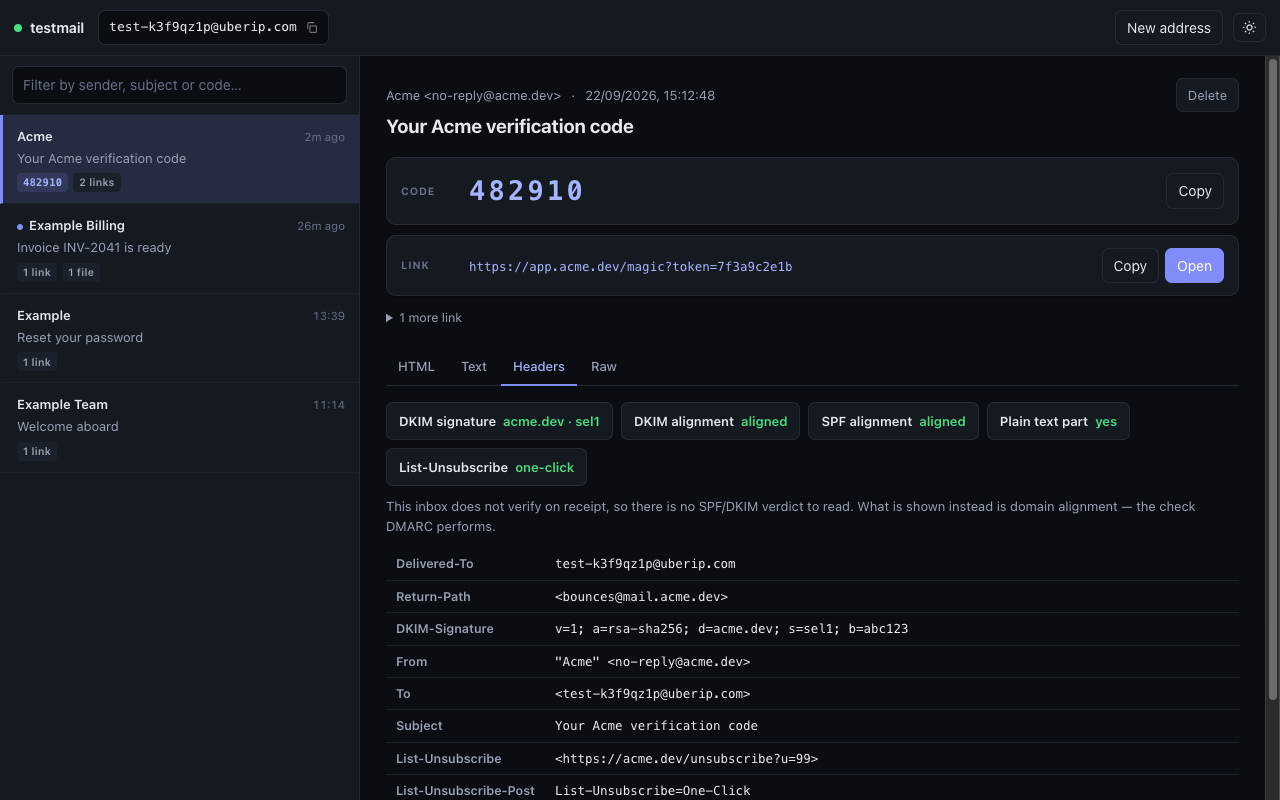
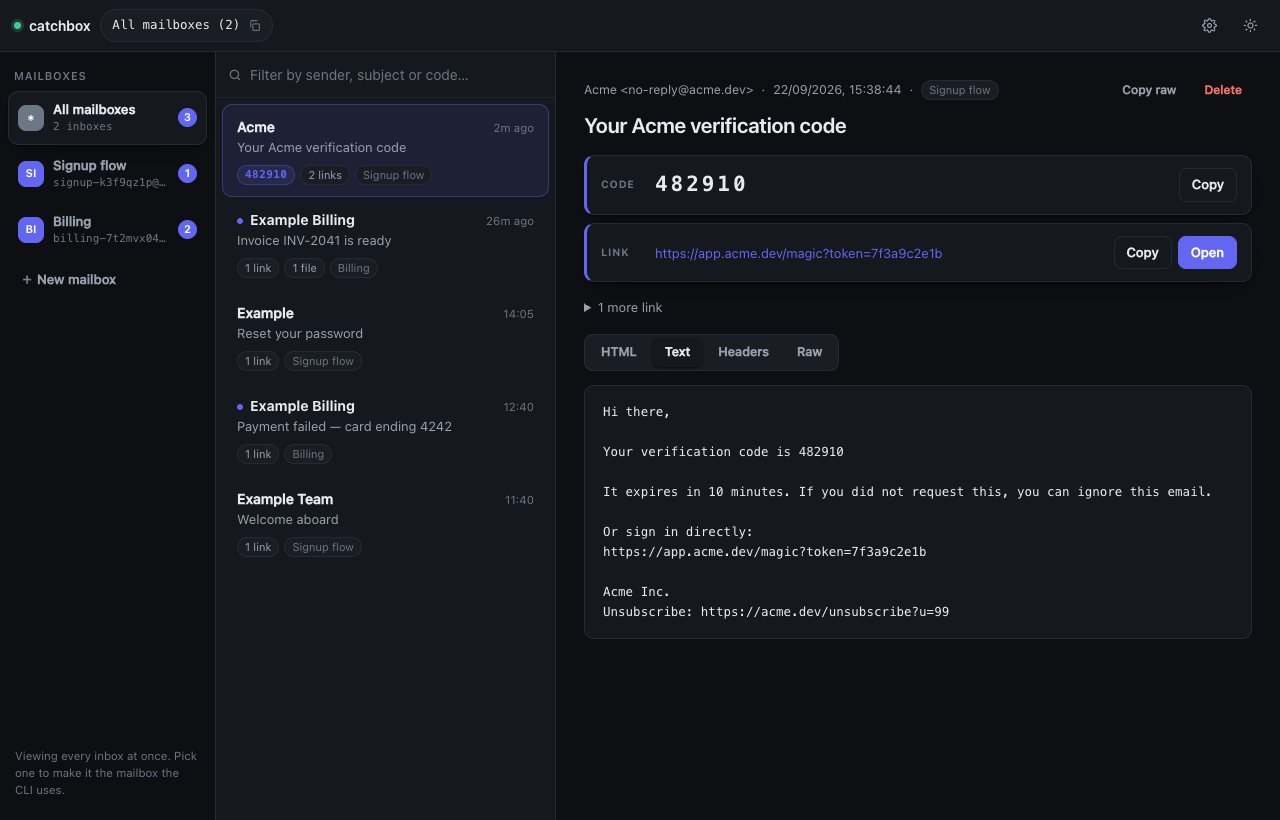
docs: README die uitlegt waarvoor dit is en hoe je het gebruikt
Rondleiding in plaats van een opsomming: waarom je dit wil, één mailbox per
flow, de inbox in de browser, de sneltoetsen en de instellingen. Nieuwe
screenshots, inclusief de instellingenpagina.

diff --git a/README.md b/README.md
@@ -2,30 +2,31 @@
 
 # catchbox
 
-**A disposable inbox for developers.** Grab an address, catch the mail, pull out the link or the code — without leaving your terminal.
+**Disposable inboxes for developers.** Grab an address, catch the mail, pull out the link or
+the code — without leaving your terminal.
 
 ![Node](https://img.shields.io/badge/Node-%E2%89%A518-339933?style=flat-square&logo=node.js&logoColor=white)
 ![No dependencies](https://img.shields.io/badge/dependencies-none-6366f1?style=flat-square)
 ![MIT](https://img.shields.io/badge/license-MIT-black?style=flat-square)
 
-<img src="docs/inbox-dark.png" alt="The catchbox inbox, showing a verification email with the code and sign-in link pulled out above the message" width="880">
+<img src="docs/inbox-dark.png" alt="The catchbox inbox: two mailboxes in the sidebar, a verification email open with the code and the sign-in link pulled out above the message" width="880">
 
 </div>
 
-## Why
+## What this is for
 
 Testing a signup flow means reading an email you don't care about, to copy one thing out of it.
-catchbox skips the reading: it pulls the **one-time code** and the **action link** out of the
-message and hands you those.
+catchbox skips the reading. It hands you the **one-time code** and the **action link**, and
+nothing else.
 
 ```sh
-catchbox                  # test-k3f9qz1p@uberip.com  (copied)
-# …paste it into your signup form…
+catchbox                  # signup-k3f9qz1p@uberip.com  (copied)
+# …paste that into your signup form…
 catchbox code --wait      # 482910  (copied)
 ```
 
-That is the whole loop. No browser, no account, no waiting on a shared mailbox someone else
-is also testing against.
+That's the loop. No browser, no account to make, no shared mailbox that someone else on the
+team is also testing against.
 
 ## Install
 
@@ -33,50 +34,110 @@ is also testing against.
 npm install -g github:brentc22/catchbox
 ```
 
-Or clone it and link:
+Or clone it:
 
 ```sh
 git clone https://github.com/brentc22/catchbox.git
 cd catchbox && npm link
 ```
 
-Node 18 or newer. No dependencies — it talks to [mail.tm](https://mail.tm) over `fetch` and
-nothing else.
+Node 18 or newer, and that is the whole list — no dependencies. It talks to
+[mail.tm](https://mail.tm) over `fetch` and to nothing else.
 
-The binary installs under both `catchbox` and `testmail`, so older scripts and shell aliases
-keep working after the rename.
+The binary installs under both `catchbox` and `testmail`, so scripts and shell aliases from
+before the rename keep working.
 
-## The inbox
+Curious before you install? `TESTMAIL_DEMO=1 catchbox ui` opens a fixed example inbox that
+never touches the network.
+
+## One mailbox per flow
+
+Signup, billing, invites and password resets all send mail, and you want to be able to tell
+which is which. So keep a mailbox per flow:
+
+```sh
+catchbox add "Signup flow"      # signup-flow-k3f9qz1p@uberip.com  (copied)
+catchbox add "Billing"          # billing-7t2mvx04@uberip.com      (copied)
+
+catchbox boxes
+# [0]   signup-flow-k3f9qz1p@uberip.com  Signup flow
+# [1] * billing-7t2mvx04@uberip.com      Billing
+
+catchbox use "Signup flow"      # every other command now reads that one
+catchbox code                   # …the code from the signup mail
+```
+
+The name ends up in the address, so you can recognise it in a log line or a signup form
+without looking it up.
+
+Need one mailbox while working in another? Don't switch — point a single command at it:
+
+```sh
+catchbox list --box Billing
+catchbox code --box 1 --wait
+```
+
+## The inbox in your browser
 
 ```sh
 catchbox ui
 ```
 
-A local inbox on `http://localhost:7337`. New mail appears by itself — no refreshing — and
-every message leads with what you actually need:
+A local inbox on `http://localhost:7337`. Every mailbox is in the sidebar with its own unread
+badge, **All mailboxes** merges them into one stream, and new mail appears by itself — it is
+pushed, not polled, so there is no refresh interval to sit through.
 
-- The **code**, in one click's reach
-- The **action link**, with tracking pixels and unsubscribe footers filtered out of the way
-- **HTML** rendered in a sandboxed frame, so you can check how the template really looks
-- **Headers** with a deliverability read: DKIM signature, domain alignment, plain-text part,
-  `List-Unsubscribe`
+Each message leads with what you actually came for:
+
+- the **code**, one click from your clipboard;
+- the **action link**, with tracking pixels and unsubscribe footers filtered out of the way;
+- the **HTML** in a sandboxed frame, so you see the template the way a recipient does;
+- the **headers**, read as a deliverability check — DKIM signature, domain alignment,
+  plain-text part, `List-Unsubscribe`.
 
 <div align="center">
-<img src="docs/inbox-light.png" alt="The same inbox in light theme, showing the rendered HTML of the email" width="880">
+<img src="docs/inbox-light.png" alt="The same inbox in light theme with the rendered HTML of the email" width="880">
 </div>
 
-Light and dark, keyboard-driven (`j`/`k` to move, `c` to copy the code, `o` to open the link,
-`/` to filter), and usable on a phone.
+Picking a mailbox in the sidebar also makes it the one the CLI reads, so `catchbox code` and
+the inbox you are looking at can never drift apart.
 
-Want to look around first? `TESTMAIL_DEMO=1 catchbox ui` serves a fixed example inbox and
-never touches the network.
+### Settings
+
+<div align="center">
+<img src="docs/settings.png" alt="The settings page: theme, accent colour, density, the list of mailboxes, and what happens when mail arrives" width="880">
+</div>
+
+Press <kbd>,</kbd> or click the gear. Light, dark or follow-your-system; an accent colour; a
+compact density; and what should happen when mail lands — open it, notify you, beep at you, or
+just sit there. Mailboxes are created, named and deleted from the same page.
+
+### Keyboard
+
+| | |
+|---|---|
+| <kbd>j</kbd> <kbd>k</kbd> | move through the list |
+| <kbd>c</kbd> | copy the code |
+| <kbd>o</kbd> | open the action link |
+| <kbd>y</kbd> | copy the active address |
+| <kbd>/</kbd> | filter |
+| <kbd>1</kbd>…<kbd>9</kbd> | switch mailbox |
+| <kbd>g</kbd> <kbd>a</kbd> | all mailboxes |
+| <kbd>,</kbd> | settings |
+| <kbd>Esc</kbd> | back |
 
 ## Commands
 
 ```
-catchbox                  show the current address and copy it
-catchbox new              new address (deletes the old one), copied
+catchbox                  show the active address and copy it
 catchbox ui [port]        open the inbox in your browser (default 7337)
+
+Mailboxes
+  catchbox add [name]     new mailbox, kept alongside the others
+  catchbox boxes          list them; * marks the active one
+  catchbox use <n|name>   make one active
+  catchbox name <text>    name the active mailbox
+  catchbox new            replace the active mailbox with a fresh one
 
 Catching mail
   catchbox wait [sec]     block until mail arrives, then print it
@@ -91,25 +152,28 @@ Pulling things out
   catchbox eml [n]        save the raw .eml
 
 Cleaning up
-  catchbox rm [n]         delete message n, or the whole account if n is omitted
+  catchbox rm [n]         delete message n, or the whole mailbox if n is omitted
 ```
 
-Flags: `--wait [sec]`, `--grace <sec>`, `--json`, `--all`, `--open`, `--out <file>`.
+Flags: `--box <n|name|address>`, `--wait [sec]`, `--grace <sec>`, `--json`, `--all`,
+`--open`, `--out <file>`.
 
 ## In scripts and CI
 
 Every reading command takes `--json`:
 
 ```sh
-TOKEN=$(catchbox wait 60 --json | jq -r '.links[0]')
-curl -sS "$TOKEN"
+LINK=$(catchbox wait 60 --json | jq -r '.actionableLinks[0]')
+curl -sS "$LINK"
+
+CODE=$(catchbox code --wait 60 --json 2>/dev/null || catchbox code --wait 60)
 ```
 
-`--grace` exists because the obvious script always loses a race: you click something in your
-app, *then* start waiting, and the mail has already arrived. By default anything from the last
-90 seconds still counts.
+`--grace` is there because the obvious script always loses a race: you click something in your
+app, *then* start waiting, and the mail has already landed. Anything from the last 90 seconds
+still counts, so you don't hang for a minute waiting for a message you already have.
 
-## Checking deliverability
+## Why did it land in spam?
 
 ```sh
 $ catchbox headers
@@ -129,37 +193,43 @@ List-Unsubscribe: none
 
 A disposable inbox doesn't run SPF or DKIM checks on arrival, so there is no verdict to read.
 What the headers still allow is the **alignment** check DMARC itself performs — whether the
-signing domain and the bounce domain line up with the `From` domain. That is usually the answer
-to "why did this land in spam", and you get it without setting up a real mailbox first.
+signing domain and the bounce domain line up with the `From` domain. That is usually the
+answer, and you get it without standing up a real mailbox first.
 
 ## How it works
 
-mail.tm provides the mailbox. catchbox keeps the account in `~/.config/testmail/account.json`,
-mints a new token when the old one expires, and creates a fresh account when mail.tm drops
-yours after a period of inactivity — so a command never fails just because you didn't use it
-for a week.
+mail.tm provides the mailboxes. catchbox keeps them in
+`~/.config/testmail/accounts.json` — the path predates the rename — mints a new token when
+one expires, and replaces a mailbox that mail.tm has dropped after a spell of inactivity, so
+a command never fails just because you didn't use it for a week.
 
-It shares that account file with [`mailsy`](https://github.com/BalliAsghar/Mailsy), so both
-tools always agree on which inbox is current.
+The active mailbox is also written to the file
+[`mailsy`](https://github.com/BalliAsghar/Mailsy) reads, so both tools stay on the same inbox.
 
 ## Limits
 
-- **Public mailbox.** Anyone who guesses the address can read it. It is for testing, not for
-  anything you mind other people seeing.
-- **mail.tm expires idle accounts.** catchbox creates a new one for you, but the old messages
-  are gone.
+- **These addresses are public.** Anyone who guesses one can read it. Fine for testing, not
+  for anything you mind other people seeing.
+- **mail.tm expires idle mailboxes.** catchbox makes you a new one, but the old messages are
+  gone.
 - **Receive only.** There is no way to send from these addresses.
 
 ## Development
 
 ```sh
-node --test        # the extraction rules — codes, links, headers
+node --test
 ```
 
-The interesting part is [`src/extract.js`](src/extract.js): deciding which six-digit number in
-an email is the code, and which of eleven URLs is the one you meant to click. Both are covered
-by tests, because the failure mode is silent and confusing — a wrong code costs more than no
-code, so it returns nothing rather than guessing.
+Two things are worth knowing about before you change them:
+
+[`src/extract.js`](src/extract.js) decides which six-digit number in an email is *the code*,
+and which of eleven URLs is the one you meant to click. Both are covered by tests, because the
+failure mode is silent: a wrong code costs you more than no code, so it returns nothing rather
+than guess.
+
+[`src/store.js`](src/store.js) holds the mailboxes. Its tests run against a throwaway `HOME`,
+because the thing that would hurt is not a crash — it's a migration that quietly drops a
+mailbox you were still using.
 
 ## License
 
